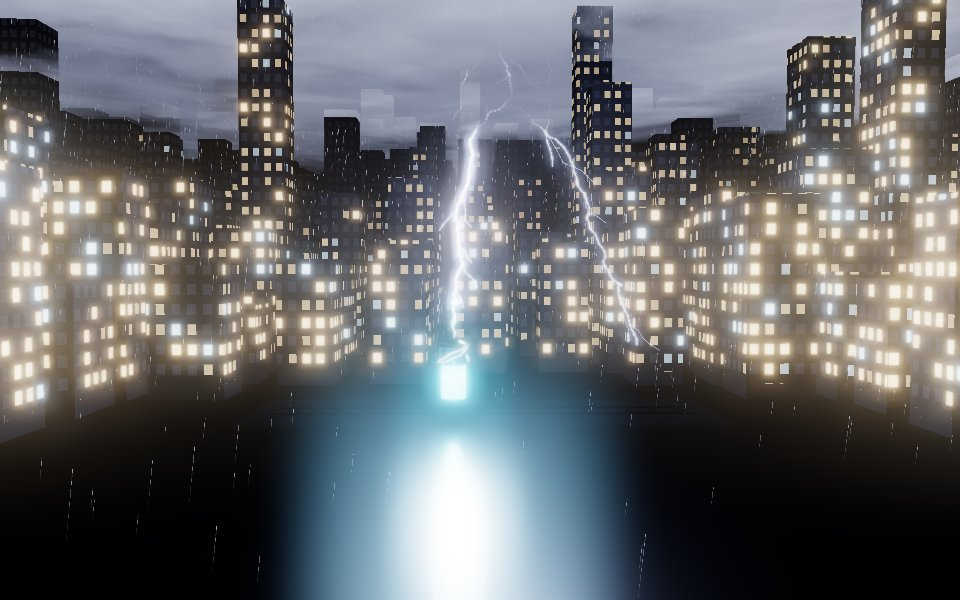
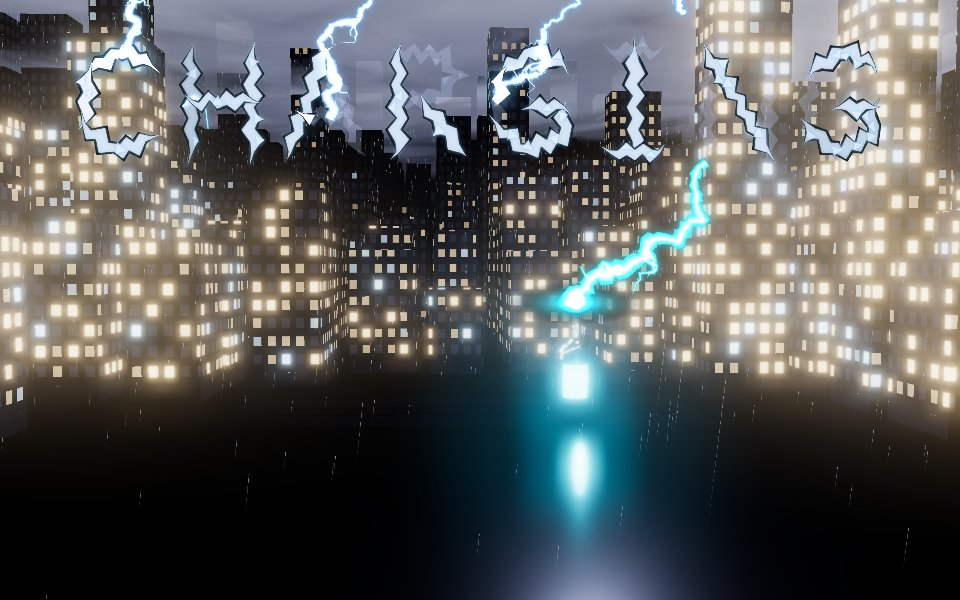
day-261110 번개 리본 · 착지 갈퀴, 맞힐수록 드러나는 CHARGING 번개 글자

diff --git a/day-261110/fx.js b/day-261110/fx.js
@@ -1,0 +1,202 @@
+const rnd = (a, b) => a + Math.random() * (b - a), clamp = (v, a = 0, b = 1) => Math.max(a, Math.min(b, v)), lerp = (a, b, k) => a + (b - a) * k;
+function seeded(s) { return () => { s |= 0; s = s + 0x6D2B79F5 | 0; let t = Math.imul(s ^ s >>> 15, 1 | s); t = t + Math.imul(t ^ t >>> 7, 61 | t) ^ t; return ((t ^ t >>> 14) >>> 0) / 4294967296; }; }
+
+let cv, ctx, W = 1, H = 1, DPR = 1, S = 1, T = 0;
+let bolts = [], dust = [], strokes = [], order = [], full = 0;
+
+const C = [[[.92, .14], [.55, 0], [.12, .2]], [[.12, .2], [.04, .72]], [[.04, .72], [.42, 1], [.92, .86]]];
+const G = [[[.92, .14], [.55, 0], [.12, .2]], [[.12, .2], [.04, .72]], [[.04, .72], [.42, 1], [.9, .84], [.92, .56]], [[.92, .56], [.48, .56]]];
+const GLYPH = {
+  C, G,
+  H: [[[.1, 0], [.1, 1]], [[.9, 0], [.9, 1]], [[.1, .5], [.9, .5]]],
+  A: [[[.5, 0], [.04, 1]], [[.5, 0], [.96, 1]], [[.22, .64], [.78, .64]]],
+  R: [[[.1, 0], [.1, 1]], [[.1, 0], [.72, .04], [.86, .26], [.62, .48], [.1, .5]], [[.44, .5], [.94, 1]]],
+  I: [[[.5, 0], [.5, 1]], [[.18, 0], [.82, 0]], [[.18, 1], [.82, 1]]],
+  N: [[[.1, 1], [.1, 0]], [[.1, 0], [.9, 1]], [[.9, 1], [.9, 0]]],
+};
+const WORD = 'CHARGING';
+
+function jagStroke(pts, rng) {
+  const out = [];
+  for (let k = 0; k < pts.length - 1; k++) {
+    const [ax, ay] = pts[k], [bx, by] = pts[k + 1], len = Math.hypot(bx - ax, by - ay), n = Math.max(2, Math.round(len / .11));
+    const nx = -(by - ay) / len, ny = (bx - ax) / len;
+    for (let i = k ? 1 : 0; i <= n; i++) {
+      const t = i / n, side = i % 2 ? 1 : -1, edge = i === 0 && k === 0 || i === n && k === pts.length - 2;
+      const o = edge ? 0 : side * (.025 + rng() * .035);
+      out.push({ x: lerp(ax, bx, t) + nx * o, y: lerp(ay, by, t) + ny * o, w: edge ? .25 : .7 + rng() * .6, spike: !edge && rng() < .28 ? (rng() < .5 ? -1 : 1) * (.06 + rng() * .09) : 0 });
+    }
+  }
+  const tipEnd = (a, b) => { const dx = a.x - b.x, dy = a.y - b.y, l = Math.hypot(dx, dy) || 1, ang = Math.atan2(dy, dx) + (rng() - .5) * .9, L = .07 + rng() * .09; return { x: a.x + Math.cos(ang) * L, y: a.y + Math.sin(ang) * L, w: 0, spike: 0 }; };
+  out.unshift(tipEnd(out[0], out[1])); out.push(tipEnd(out[out.length - 1], out[out.length - 2]));
+  return out;
+}
+function buildText() {
+  const rng = seeded(261110);
+  strokes = [];
+  [...WORD].forEach((ch, li) => GLYPH[ch].forEach(p => strokes.push({ li, pts: jagStroke(p, rng), r: 0, at: Infinity, glow: 0 })));
+  order = strokes.map((_, i) => i);
+  for (let i = order.length - 1; i > 0; i--) { const j = Math.floor(rng() * (i + 1)); [order[i], order[j]] = [order[j], order[i]]; }
+}
+buildText();
+
+let box = [];
+function layoutText() {
+  const portrait = W < H * .9, per = portrait ? 4 : 8, lw = W * .86 / per * .74, gap = W * .86 / per * .26, lh = lw * 1.32;
+  box = [...WORD].map((_, i) => {
+    const row = portrait ? Math.floor(i / 4) : 0, col = portrait ? i % 4 : i;
+    return { x: W * .07 + gap / 2 + col * (lw + gap), y: H * (portrait ? .075 : .085) + row * (lh + lw * .35), w: lw, h: lh };
+  });
+}
+const sp = (s, p) => { const b = box[s.li]; return [b.x + p.x * b.w, b.y + p.y * b.h]; };
+
+export function setupFx(canvas) { cv = canvas; ctx = cv.getContext('2d'); }
+export function resizeFx(w, h) { W = w; H = h; DPR = Math.min(2, devicePixelRatio || 1); cv.width = W * DPR; cv.height = H * DPR; S = Math.min(W, H) / 800; layoutText(); }
+export function resetFx() { strokes.forEach(s => { s.r = 0; s.at = Infinity; s.glow = 0; }); full = 0; bolts = []; dust = []; }
+export function setFull(v) { full = v; }
+
+const groupOf = k => order.slice(Math.floor(k * order.length / 6), Math.floor((k + 1) * order.length / 6));
+function strokeMid(s) { const p = s.pts[Math.floor(s.pts.length / 2)]; return sp(s, p); }
+export function textPoint(k) {
+  const g = k == null ? [order[Math.floor(Math.random() * order.length)]] : groupOf(k);
+  let best = null;
+  g.forEach(i => strokes[i].pts.forEach(p => { const q = sp(strokes[i], p); if (!best || q[1] > best[1]) best = q; }));
+  return best;
+}
+export function strikeText(k) {
+  const g = groupOf(k);
+  g.forEach((i, j) => {
+    const s = strokes[i], m = strokeMid(s);
+    s.at = T + .05 + j * .07;
+    const x0 = m[0] + rnd(-.12, .12) * W;
+    bolt(() => [x0, -20], () => strokeMid(s), { color: '#8fc4ff', power: .75, width: 4.5, delay: j * .07, splash: false });
+  });
+  return textPoint(k);
+}
+
+function mainPath(gens, rough) {
+  let p = [{ t: 0, o: 0, w: 1 }, { t: 1, o: 0, w: 1 }];
+  for (let g = 0; g < gens; g++) {
+    const n = [];
+    for (let i = 0; i < p.length - 1; i++) {
+      const a = p[i], b = p[i + 1], d = b.t - a.t;
+      n.push(a, { t: (a.t + b.t) / 2 + rnd(-.18, .18) * d, o: (a.o + b.o) / 2 + rnd(-1, 1) * d * rough, w: rnd(.55, 1.35) });
+    }
+    n.push(p[p.length - 1]); p = n;
+  }
+  return p;
+}
+export function bolt(from, to, o = {}) {
+  const b = { from, to, age: -(o.delay || 0), color: o.color || '#5aa0ff', power: o.power ?? 1, width: o.width || 7, splash: o.splash ?? true, back: !!o.back,
+    path: mainPath(o.gens || 6, o.rough || .32), branches: [], claws: [],
+    pulses: [0, rnd(.06, .11), rnd(.16, .26)].slice(0, (o.power ?? 1) > .7 ? 3 : 2) };
+  const nb = Math.round(rnd(2, 5) * (o.branchy ?? 1));
+  for (let k = 0; k < nb; k++) b.branches.push({ at: rnd(.15, .8), ang: rnd(.35, .95) * (Math.random() < .5 ? -1 : 1), len: rnd(.1, .3), path: mainPath(4, .45) });
+  const nc = Math.round(rnd(6, 10));
+  for (let k = 0; k < nc; k++) b.claws.push({ a: -Math.PI / 2 + rnd(-1, 1) * 1.35, l: rnd(.5, 1.2), curl: rnd(-.6, .6), path: mainPath(3, .5) });
+  bolts.push(b);
+  return b;
+}
+
+function project(P, A, B) {
+  const dx = B[0] - A[0], dy = B[1] - A[1], L = Math.hypot(dx, dy) || 1, nx = -dy / L, ny = dx / L;
+  return P.map(p => ({ x: A[0] + dx * p.t + nx * p.o * L, y: A[1] + dy * p.t + ny * p.o * L, w: p.w }));
+}
+function ribbon(P, w0, w1, mul = 1) {
+  if (P.length < 2) return;
+  const Lp = [], Rp = [];
+  for (let i = 0; i < P.length; i++) {
+    const a = P[Math.max(0, i - 1)], b = P[Math.min(P.length - 1, i + 1)], dx = b.x - a.x, dy = b.y - a.y, l = Math.hypot(dx, dy) || 1;
+    const w = lerp(w0, w1, i / (P.length - 1)) * (P[i].w ?? 1) * mul / 2;
+    Lp.push([P[i].x - dy / l * w, P[i].y + dx / l * w]); Rp.push([P[i].x + dy / l * w, P[i].y - dx / l * w]);
+  }
+  ctx.beginPath(); ctx.moveTo(Lp[0][0], Lp[0][1]);
+  Lp.forEach(q => ctx.lineTo(q[0], q[1])); for (let i = Rp.length - 1; i >= 0; i--) ctx.lineTo(Rp[i][0], Rp[i][1]);
+  ctx.closePath(); ctx.fill();
+}
+function glowRibbon(P, w0, w1, color, I) {
+  ctx.save(); ctx.shadowColor = color; ctx.shadowBlur = 26 * S;
+  ctx.globalAlpha = clamp(.55 * I); ctx.fillStyle = color; ribbon(P, w0, w1, 2.6);
+  ctx.shadowBlur = 10 * S; ctx.globalAlpha = clamp(.9 * I); ribbon(P, w0, w1, 1.5);
+  ctx.restore();
+  ctx.globalAlpha = clamp(I); ctx.fillStyle = '#ffffff'; ribbon(P, w0, w1, .62); ctx.globalAlpha = 1;
+}
+const boltI = b => b.pulses.reduce((s, p) => s + (b.age >= p ? Math.exp(-(b.age - p) * 12) : 0), 0) + (b.age < 1 ? .18 * (1 - b.age) : 0);
+
+function drawBolt(b) {
+  if (b.age < 0) return;
+  const A = b.from(), B = b.to(), I = boltI(b) * b.power, prog = clamp(b.age / .07), w = b.width * S + 1;
+  if (I < .02) return;
+  const P = project(b.path, A, B).filter((_, i, arr) => i / (arr.length - 1) <= prog + .001);
+  glowRibbon(P, w * .55, w, b.color, I);
+  const L = Math.hypot(B[0] - A[0], B[1] - A[1]), dir = Math.atan2(B[1] - A[1], B[0] - A[0]);
+  b.branches.forEach(br => {
+    if (br.at > prog) return;
+    const s = project([{ t: br.at, o: 0 }], A, B)[0], i = Math.round(br.at * (P.length - 1)), base = P[Math.min(i, P.length - 1)] || s;
+    const ang = dir + br.ang, e = [base.x + Math.cos(ang) * L * br.len, base.y + Math.sin(ang) * L * br.len];
+    glowRibbon(project(br.path, [base.x, base.y], e), w * .5, 0, b.color, I * .75);
+  });
+  if (b.splash && prog >= 1) {
+    const grow = clamp((b.age - .07) / .12), R = 70 * S * b.power;
+    b.claws.forEach(c => {
+      const e = [B[0] + Math.cos(c.a) * R * c.l * grow, B[1] + Math.sin(c.a) * R * c.l * grow * .8];
+      const Pc = project(c.path, B, e).map((p, i, arr) => { const t = i / (arr.length - 1); return { x: p.x + Math.cos(c.a + Math.PI / 2) * c.curl * R * t * t * grow, y: p.y + Math.sin(c.a + Math.PI / 2) * c.curl * R * t * t * grow, w: p.w }; });
+      glowRibbon(Pc, w * .9, 0, b.color, I * .9);
+    });
+    ctx.save(); ctx.globalCompositeOperation = 'lighter'; ctx.translate(B[0], B[1]); ctx.scale(1, .32);
+    const rg = ctx.createRadialGradient(0, 0, 0, 0, 0, R * 1.3);
+    rg.addColorStop(0, `rgba(255,255,255,${clamp(I) * .9})`); rg.addColorStop(.25, b.color); rg.addColorStop(1, 'rgba(0,0,0,0)');
+    ctx.globalAlpha = clamp(I); ctx.fillStyle = rg; ctx.beginPath(); ctx.arc(0, 0, R * 1.3, 0, Math.PI * 2); ctx.fill(); ctx.restore();
+    if (b.age < .1) for (let k = 0; k < 3; k++) dust.push({ x: B[0], y: B[1], vx: rnd(-1, 1) * 260 * S, vy: -rnd(80, 380) * S, life: rnd(.4, .9), c: b.color });
+  }
+}
+
+function strokePoly(P, wgt, mul) {
+  ribbon(P, wgt, wgt, mul);
+  P.forEach((p, i) => {
+    if (!p.spike || i === 0 || i === P.length - 1) return;
+    const a = P[i - 1], b = P[i + 1], dx = b.x - a.x, dy = b.y - a.y, l = Math.hypot(dx, dy) || 1, tx = dx / l, ty = dy / l, k = wgt * .45 * mul;
+    ctx.beginPath(); ctx.moveTo(p.x - tx * k, p.y - ty * k); ctx.lineTo(p.x + tx * k, p.y + ty * k);
+    ctx.lineTo(p.x - ty * p.spike - tx * k * .2, p.y + tx * p.spike + ty * k * .2); ctx.closePath(); ctx.fill();
+  });
+}
+function drawText(dt, flash) {
+  const pulse = full ? .5 + .5 * Math.sin(T * 3.2) : 0, glowC = full ? '#ffc861' : '#7cc8ff';
+  strokes.forEach(s => {
+    const b = box[s.li], wgt = b.w * .15, P = s.pts.map(p => { const [x, y] = sp(s, p); return { x, y, w: p.w, spike: p.spike * b.w }; });
+    if (T >= s.at && s.r < 1) { if (s.r === 0) s.glow = 1; s.r = Math.min(1, s.r + dt * 4.5); }
+    s.glow = Math.max(0, s.glow - dt * 1.2);
+    if (s.r < 1 && flash > .05) { ctx.globalAlpha = clamp(flash * .2); ctx.fillStyle = '#c9d8ff'; strokePoly(P, wgt, 1); ctx.globalAlpha = 1; }
+    if (s.r <= 0) return;
+    const Q = P.slice(0, Math.max(2, Math.ceil(P.length * s.r)));
+    ctx.fillStyle = 'rgba(0,0,0,.9)'; strokePoly(Q, wgt, 1.45);
+    ctx.save(); ctx.shadowColor = glowC; ctx.shadowBlur = (10 + s.glow * 40 + pulse * 18) * S;
+    ctx.fillStyle = s.glow > .02 ? `rgb(255,255,255)` : full ? `rgb(255,${244 + pulse * 11},${220 + pulse * 35})` : '#eef3ff';
+    ctx.globalAlpha = clamp(.82 + .18 * Math.sin(T * 13 + s.li * 3) * (Math.random() < .2 ? 1 : 0) + s.glow);
+    strokePoly(Q, wgt, 1); ctx.restore();
+    if (s.r >= 1 && Math.random() < dt * (full ? 4 : 1.4)) {
+      const i = Math.floor(rnd(1, P.length - 2)), p = P[i], q = P[Math.min(P.length - 1, i + 2)];
+      ctx.save(); ctx.globalCompositeOperation = 'lighter'; ctx.strokeStyle = glowC; ctx.lineWidth = 1.4 * S + .4; ctx.shadowColor = glowC; ctx.shadowBlur = 12 * S;
+      ctx.beginPath(); ctx.moveTo(p.x, p.y);
+      for (let k = 1; k <= 4; k++) ctx.lineTo(lerp(p.x, q.x, k / 4) + rnd(-1, 1) * wgt * 1.4, lerp(p.y, q.y, k / 4) + rnd(-1, 1) * wgt * 1.4);
+      ctx.stroke(); ctx.restore();
+    }
+  });
+}
+
+export function renderFx(dt, flash) {
+  T += dt;
+  ctx.setTransform(DPR, 0, 0, DPR, 0, 0); ctx.clearRect(0, 0, W, H);
+  let I = 0;
+  bolts = bolts.filter(b => { b.age += dt; if (b.age >= 0) I = Math.max(I, boltI(b) * b.power); return b.age < 1.1; });
+  ctx.save(); ctx.globalCompositeOperation = 'lighter'; bolts.filter(b => b.back).forEach(drawBolt); ctx.restore();
+  drawText(dt, Math.max(flash, I));
+  ctx.save(); ctx.globalCompositeOperation = 'lighter'; bolts.filter(b => !b.back).forEach(drawBolt);
+  dust = dust.filter(d => {
+    d.vy += 900 * S * dt; d.x += d.vx * dt; d.y += d.vy * dt;
+    ctx.globalAlpha = clamp(d.life); ctx.fillStyle = d.c; ctx.fillRect(d.x - 1.2 * S, d.y - 1.2 * S, 2.4 * S + .5, 2.4 * S + .5);
+    return (d.life -= dt * 1.8) > 0;
+  });
+  ctx.restore();
+  return I;
+}

diff --git a/day-261110/main.js b/day-261110/main.js
@@ -6,10 +6,12 @@ import { OutputPass } from 'three/addons/postprocessing/OutputPass.js';
 import { LineSegments2 } from 'three/addons/lines/LineSegments2.js';
 import { LineSegmentsGeometry } from 'three/addons/lines/LineSegmentsGeometry.js';
 import { LineMaterial } from 'three/addons/lines/LineMaterial.js';
+import * as fx from './fx.js';
 
 const clamp = (v, a = 0, b = 1) => Math.max(a, Math.min(b, v)), lerp = (a, b, k) => a + (b - a) * k, rnd = (a, b) => a + Math.random() * (b - a);
 const CELLS = 6, TIP = new THREE.Vector3(0, 4.45, 0);
 
+fx.setupFx(document.getElementById('fx'));
 const renderer = new THREE.WebGLRenderer({ antialias: true });
 renderer.setPixelRatio(Math.min(2, devicePixelRatio || 1));
 renderer.toneMapping = THREE.ACESFilmicToneMapping; renderer.toneMappingExposure = 1.1;
@@ -150,43 +152,14 @@ function resize() {
   renderer.setSize(W, H); composer.setSize(W, H); RES.set(W, H);
   camera.aspect = W / H;
   camera.fov = Math.max(42, 2 * Math.atan(Math.tan(THREE.MathUtils.degToRad(17)) / camera.aspect) * 180 / Math.PI);
-  camera.updateProjectionMatrix();
+  camera.updateProjectionMatrix(); fx.resizeFx(W, H);
 }
 addEventListener('resize', resize); resize();
 
-let bolts = [], flash = 0, hit = 0, target = 0, charge = 0, full = 0, crawl = 0, nextAmb = 3, T = 0, ph = 0, shake = 0;
+let flash = 0, hit = 0, target = 0, charge = 0, full = 0, crawl = 0, nextAmb = 3, T = 0, ph = 0, shake = 0;
 const FP = new THREE.Vector3();
 const lineMat = (color, width, op) => new LineMaterial({ color, linewidth: width, transparent: true, opacity: op, blending: THREE.AdditiveBlending, depthWrite: false, resolution: RES });
-function boltSegs(a, b, gens) {
-  let seg = [[a.clone(), b.clone(), 0]];
-  for (let g = 0; g < gens; g++) {
-    const nx = [];
-    seg.forEach(([p, q, br]) => {
-      const d = q.clone().sub(p), l = d.length(), dir = d.clone().divideScalar(l || 1);
-      const off = new THREE.Vector3(rnd(-1, 1), rnd(-1, 1), rnd(-1, 1)); off.sub(dir.clone().multiplyScalar(off.dot(dir))).normalize().multiplyScalar(rnd(-1, 1) * l * .22);
-      const m = p.clone().add(q).multiplyScalar(.5).add(off);
-      nx.push([p, m, br], [m, q, br]);
-      if (g < 5 && br < 2 && Math.random() < (br ? .12 : .32)) {
-        const bd = dir.clone().add(new THREE.Vector3(rnd(-.9, .9), rnd(-.3, .2), rnd(-.9, .9))).normalize();
-        nx.push([m, m.clone().add(bd.multiplyScalar(l * rnd(.6, 1.3))), br + 1]);
-      }
-    });
-    seg = nx;
-  }
-  return [0, 1, 2].map(b => seg.filter(s => s[2] === b).flatMap(([p, q]) => [p.x, p.y, p.z, q.x, q.y, q.z]));
-}
-function makeBolt(a, b, power, gens = 7) {
-  const lv = boltSegs(a, b, gens), meshes = [];
-  [[0, '#6f8cff', 16, .12], [0, '#ffffff', 3.2, 1], [1, '#cfdcff', 1.8, .8], [2, '#b8c8ff', 1.1, .6]].forEach(([k, c, w, op]) => {
-    if (!lv[k].length) return;
-    const g = new LineSegmentsGeometry(); g.setPositions(lv[k]);
-    const m = new LineSegments2(g, lineMat(c, w * Math.max(.6, PX), op)); m.userData.op = op; m.frustumCulled = false;
-    scene.add(m); meshes.push(m);
-  });
-  bolts.push({ meshes, t: 0, power, pulses: [0, rnd(.07, .12), rnd(.18, .3)].slice(0, power > .8 ? 3 : 2) });
-  FP.copy(a).lerp(b, .25);
-}
-const boltI = b => b.pulses.reduce((s, p) => s + (b.t >= p ? Math.exp(-(b.t - p) * 14) : 0), 0) + (b.t < .9 ? .15 * (1 - b.t / .9) : 0);
+const tmp2 = new THREE.Vector3(), scr = v => { tmp2.copy(v).project(camera); return [(tmp2.x + 1) / 2 * W, (1 - tmp2.y) / 2 * H]; };
 
 const SPN = 500, spPos = new Float32Array(SPN * 3).fill(-999), spVel = new Float32Array(SPN * 3), spLife = new Float32Array(SPN);
 const spGeo = new THREE.BufferGeometry(); spGeo.setAttribute('position', new THREE.BufferAttribute(spPos, 3));
@@ -231,37 +204,35 @@ const cloudPlane = new THREE.Plane(new THREE.Vector3(0, -1, 0), 21);
 function strike(cx, cy) {
   ndc.set(cx / W * 2 - 1, -(cy / H) * 2 + 1);
   ray.setFromCamera(ndc, camera);
-  tmp.copy(TIP).project(camera);
-  const sx = (tmp.x + 1) / 2 * W, sy = (1 - tmp.y) / 2 * H;
+  const [sx, sy] = scr(TIP);
   const onBattery = Math.hypot(cx - sx, cy - sy) < Math.max(22, 34 * PX) || ray.intersectObject(battery, true).length > 0;
   if (onBattery) {
-    const top = new THREE.Vector3(TIP.x + rnd(-6, 6), 21, rnd(-8, 1));
-    makeBolt(top, TIP.clone(), 1);
-    flash = 1.3; hit = 1; hitLight.position.copy(TIP).add(new THREE.Vector3(0, .3, .6)); shake = .5;
-    burst(TIP, 70, 6);
+    const from = target < CELLS ? fx.strikeText(target) : fx.textPoint();
+    fx.bolt(() => from, () => scr(TIP), { color: '#3fe6ff', power: 1, width: 8.5, delay: .14 });
+    FP.set(TIP.x, 14, 0); flash = 1.2;
+    setTimeout(() => { hit = 1; hitLight.position.copy(TIP).add(new THREE.Vector3(0, .3, .6)); shake = .5; burst(TIP, 70, 6); }, 140);
     if (target < CELLS) target++; else for (let k = 0; k < 4; k++) burst(new THREE.Vector3(TIP.x + rnd(-.6, .6), rnd(.6, 2.6), rnd(-.6, .6)), 30, 4);
-    crawl = 1; thunder(1, camera.position.distanceTo(TIP)); zap(target);
+    crawl = 1.1; thunder(1, camera.position.distanceTo(TIP)); zap(target);
     if (target === CELLS && !full) { full = .001; setTimeout(fullChord, 520); }
     document.getElementById('hint').style.opacity = 0;
     return;
   }
   const hits = ray.intersectObjects([city, ground], false);
   if (hits.length) {
-    const p = hits[0].point;
-    makeBolt(new THREE.Vector3(p.x + rnd(-6, 6), 21, p.z + rnd(-6, 6)), p.clone(), .75);
-    flash = 1; hit = .7; hitLight.position.copy(p).add(new THREE.Vector3(0, .5, 0)); shake = .25;
+    const p = hits[0].point.clone(), x0 = scr(p)[0] + rnd(-.15, .15) * W;
+    fx.bolt(() => [x0, -20], () => scr(p), { color: '#4f86ff', power: .85, width: 6.5 });
+    FP.copy(p).add(new THREE.Vector3(0, 10, 0)); flash = 1; hit = .7; hitLight.position.copy(p).add(new THREE.Vector3(0, .5, 0)); shake = .25;
     burst(p, 40, 4); thunder(.85, camera.position.distanceTo(p));
-  } else if (ray.ray.intersectPlane(cloudPlane, tmp)) {
-    const p = tmp.clone(); p.y = 22;
-    makeBolt(p.clone().add(new THREE.Vector3(rnd(-12, 12), rnd(0, 2), rnd(-12, 12))), p, .5, 6);
-    flash = .7; rumble(.5, camera.position.distanceTo(p) * .012);
+  } else {
+    const x0 = cx + rnd(-90, 90) * PX;
+    fx.bolt(() => [x0, -20], () => [cx, cy], { color: '#86a8ff', power: .55, width: 4, splash: false, branchy: 1.5 });
+    if (ray.ray.intersectPlane(cloudPlane, tmp)) FP.copy(tmp); flash = .7; rumble(.5, .3);
   }
 }
 function ambient() {
-  const p = new THREE.Vector3(rnd(-70, 70), rnd(22, 26), rnd(-110, -15));
-  if (Math.random() < .55) makeBolt(p, p.clone().add(new THREE.Vector3(rnd(-25, 25), rnd(-3, 2), rnd(-10, 10))), .35, 6);
-  else FP.copy(p);
-  flash = Math.max(flash, rnd(.35, .6));
+  const p = new THREE.Vector3(rnd(-70, 70), rnd(22, 26), rnd(-110, -15)), [x, y] = [rnd(.05, .95) * W, rnd(.02, .3) * H];
+  if (Math.random() < .6) fx.bolt(() => [x, y], () => [x + rnd(-.3, .3) * W, y + rnd(.02, .14) * H], { color: '#6f8cff', power: .4, width: 3, splash: false, back: true, gens: 5 });
+  FP.copy(p); flash = Math.max(flash, rnd(.35, .6));
   rumble(rnd(.25, .45), camera.position.distanceTo(p) * .012);
 }
 
@@ -316,7 +287,7 @@ document.getElementById('snd').onclick = e => {
   e.target.textContent = soundOn ? '소리 끄기' : '소리 켜기';
 };
 document.getElementById('reset').onclick = () => {
-  target = charge = full = crawl = 0; aLit.fill(0);
+  target = charge = full = crawl = 0; aLit.fill(0); fx.resetFx();
   document.getElementById('hint').style.opacity = 1;
 };
 
@@ -331,14 +302,6 @@ function step(dt) {
   if (full > 0) full += dt;
   flash *= Math.exp(-dt * 6); hit *= Math.exp(-dt * 7); shake *= Math.exp(-dt * 5);
   if ((nextAmb -= dt) < 0) { ambient(); nextAmb = rnd(4, 9); }
-  bolts = bolts.filter(b => {
-    b.t += dt;
-    const I = boltI(b) * b.power;
-    flash = Math.max(flash, I * .9);
-    b.meshes.forEach(m => { m.material.opacity = m.userData.op * clamp(I); m.material.resolution = RES; });
-    if (b.t > 1.2) { b.meshes.forEach(m => { scene.remove(m); m.geometry.dispose(); m.material.dispose(); }); return false; }
-    return true;
-  });
   flashLight.position.copy(FP); flashLight.intensity = flash * 90;
   hitLight.intensity = hit * 70;
   const fr = charge / CELLS, pulse = full ? .6 + .4 * Math.sin(T * 3) : 0;
@@ -372,6 +335,7 @@ function step(dt) {
   camera.position.set(CAM.x + Math.sin(T * .13) * 1.2 + mouse.x * 2.5 + rnd(-1, 1) * shake * .4, CAM.y + mouse.y * -1.2 + rnd(-1, 1) * shake * .3, CAM.z);
   camera.lookAt(LOOK.x + TIP.x * .12, LOOK.y, LOOK.z);
   composer.render(dt);
+  fx.setFull(full); flash = Math.max(flash, fx.renderFx(dt, flash) * .9);
 }
 
 let last = performance.now();

diff --git a/day-261110/index.html b/day-261110/index.html
@@ -9,6 +9,7 @@
 <style>
   html, body { margin: 0; height: 100%; overflow: hidden; background: #05060b; touch-action: none; user-select: none; -webkit-user-select: none; }
   canvas { display: block; position: fixed; inset: 0; width: 100%; height: 100%; cursor: crosshair; }
+  #fx { pointer-events: none; z-index: 1; }
   .hint { position: fixed; left: 0; right: 0; bottom: 30px; text-align: center; color: rgba(220,226,255,.45); font: 500 11px 'IBM Plex Mono', monospace; letter-spacing: .06em; pointer-events: none; transition: opacity 1s; }
   .ctl { position: fixed; right: 14px; top: 14px; display: flex; gap: 6px; z-index: 2; }
   .ctl button { background: rgba(255,255,255,.05); border: 1px solid rgba(255,255,255,.12); color: #dfe4ff; font: 500 11px 'IBM Plex Mono', monospace; padding: 7px 10px; border-radius: 20px; cursor: pointer; }
@@ -16,6 +17,7 @@
 </style>
 </head>
 <body>
+<canvas id="fx"></canvas>
 <div class="hint" id="hint">하늘을 눌러 번개를 광장의 작은 배터리에 맞혀 보세요</div>
 <div class="ctl"><button id="snd">소리 끄기</button><button id="reset">처음으로</button></div>
 <a class="back" href="../index.html">←</a>

diff --git a/index.html b/index.html
@@ -436,7 +436,7 @@
     <div class="card-info">
       <div class="card-tag">day 261110 · charging</div>
       <div class="card-title">충전중</div>
-      <div class="card-concept">비 내리는 3D 도시, 광장 레일 위를 오가는 작은 배터리에 번개를 맞히면 한 칸씩 차오르고, 꽉 차면 도시에 불이 켜진다</div>
+      <div class="card-concept">비 내리는 3D 도시, 레일 위를 오가는 작은 배터리에 번개를 맞힐 때마다 하늘의 CHARGING 번개 글자가 한 획씩 드러나고 도시에 불이 켜진다</div>
       <div class="card-bottom">
         <span>2026.11.10</span>
         <span class="bookmark" aria-hidden="true"></span>
